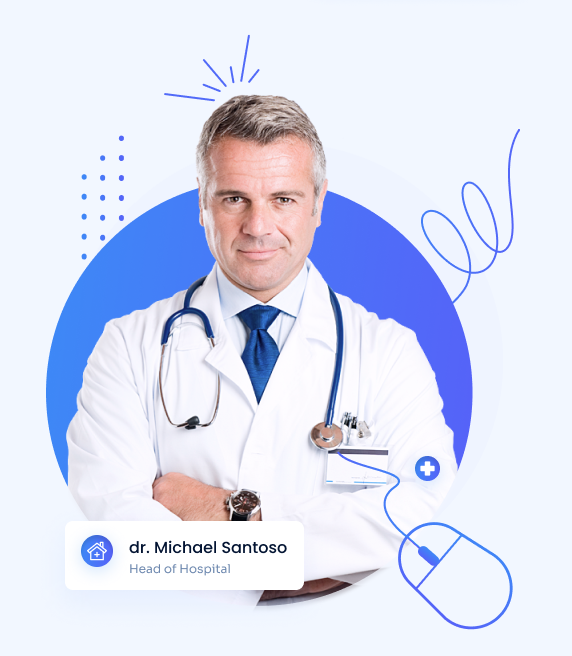
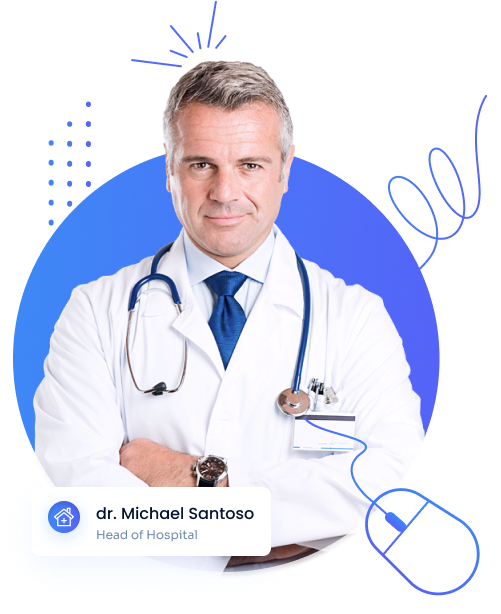
Created signin page

Changed region(s): [[0.0, 0.0, 0.9581, 0.9902], [0.9581, 0.1547, 0.988, 0.1857]]

diff --git a/med-records/src/pages/homepage.js b/med-records/src/pages/homepage.js
@@ -2,15 +2,16 @@ import React from "react";
 // import ReactDOM from 'react-dom';
 // import {Link} from 'react-router-dom'
 import "./homepage.css";
+import Footer from '../components/Footer'
 const homepage = () => {
   return (
     <div>
       <div className="navbar">
         <div className="home-btn">
           <div className="app-title">MedRecords</div>
-          <div className="logo"></div>
+          {/* <div className="logo"></div> */}
           {/* <div className='plus'></div> */}
-          <span className="plus">&#43;</span>
+          {/* <span className="plus">&#43;</span> */}
         </div>
 
         <div className="options">
@@ -37,7 +38,7 @@ const homepage = () => {
           </p>
           <button className="get-started">Get Started</button>
         </div>
-        <div className="home-img">
+        <div className="home-img" style={{marginLeft:200}}>
           <img
             src={require("../assets/HomePageDoctor.png")}
             alt="rjgbekgn"
@@ -47,21 +48,25 @@ const homepage = () => {
 
       <div className="partnerBox">
         <div className="partners"></div>
-        <div className="home-img" style={{ marginLeft: 160 }}>
+        <div className="home-img" style={{ marginLeft: 120 }}>
           <img src={require("../assets/Partners.png")} alt="rjgbekgn"></img>
         </div>
       </div>
       <div className="feature-box">
-        <div className="feature-title">What you can store?</div>
-        <div className="feature-desc">
-          Here at MedRecords you can store all your medical related documents
-          and reports. Be it your precriptions, your X-ray reports, your medical
-          bills, every document can be stored on the blockchain. Documents
-          stored will be tamper proof and permanent. Be assured!
+        <div className="home-img" style={{ marginLeft: 120 }}>
+          <img src={require("../assets/Features.png")} alt="rjgbekgn"></img>
         </div>
       </div>
-      <div></div>
+      <div>
+      <div className="home-img" style={{ marginLeft: 240 }}>
+          <img src={require("../assets/Testimonials.png")} alt="rjgbekgn"></img>
+        </div>
+      </div>
+      < Footer />
     </div>
+
+    // footer code
+    
   );
 };
 

diff --git a/med-records/src/pages/signin.js b/med-records/src/pages/signin.js
@@ -1,0 +1,38 @@
+import "./homepage.css";
+import "bootstrap/dist/css/bootstrap.css";
+import "./signin.css";
+export default function SignInPage() {
+    return (
+        <div className="signin-page">
+            <nav class="navbar navbar-expand-lg bg-light">
+                <div class="container-fluid">
+                    <div className="app-title">MedRecords
+                    </div>
+
+                    <button class="navbar-toggler" type="button" data-bs-toggle="collapse" data-bs-target="#navbarNavAltMarkup" aria-controls="navbarNavAltMarkup" aria-expanded="false" aria-label="Toggle navigation">
+                        <span class="navbar-toggler-icon"></span>
+                    </button>
+                    <div class="collapse navbar-collapse" id="navbarNavAltMarkup">
+                        <div class="navbar-nav" style={{ marginLeft: 650 }}>
+                            <a class="nav-link active" aria-current="page" href="#">Home</a>
+                            <a class="nav-link" href="#">About Us</a>
+                            <a class="nav-link" href="#">Features</a>
+                            <a class="nav-link disabled">Contact Us</a>
+                        </div>
+                    </div>
+                </div>
+            </nav >
+
+
+            <div className="sign-in-flex">
+                <div className="signin-img">
+                    <img
+                        src={require("../assets/signin.png")}
+                        alt="rjgbekgn"
+                    ></img>
+                </div>
+                <div className="sign-in-form"> hello</div>
+            </div>
+        </div >
+    );
+}   

diff --git a/med-records/src/components/Footer.js b/med-records/src/components/Footer.js
@@ -1,0 +1,33 @@
+import React from 'react';
+import './Footer.css'
+const Footer = () => {
+    return (
+        <div className = "footer">
+            <div className='footer-p1' >
+                <div className="footer-title">MedReports</div>
+                <div className="footer-address">
+                IIIT Bangalore, 26/C, Hosur Rd, Electronics City Phase 1, Electronic City, Bengaluru, Karnataka 560100
+                </div>
+            </div>
+
+            <div className="footer-p2">
+                    <div style={{fontWeight: 'bold'}}>Go to</div>
+                    <div>Home</div>
+                    <div>About Us</div>
+                    <div>Features</div>
+                    <div>Testimonials</div>
+            </div>
+
+            <div className="footer-p2">
+                <div>+626564465455</div>
+                <div>info@MedReports.com</div>
+                <div>Telp: +5646544654</div>
+            </div>
+            
+
+        </div>
+        
+    )
+}
+
+export default Footer;

diff --git a/med-records/public/index.html b/med-records/public/index.html
@@ -26,6 +26,10 @@
 <link href="https://fonts.googleapis.com/css2?family=Courier+Prime&family=Open+Sans:wght@500;700&display=swap" rel="stylesheet">
 
     
+
+<link href="https://cdn.jsdelivr.net/npm/bootstrap@5.2.2/dist/css/bootstrap.min.css" rel="stylesheet" integrity="sha384-Zenh87qX5JnK2Jl0vWa8Ck2rdkQ2Bzep5IDxbcnCeuOxjzrPF/et3URy9Bv1WTRi" crossorigin="anonymous">
+
+<script src="https://cdn.jsdelivr.net/npm/bootstrap@5.2.2/dist/js/bootstrap.bundle.min.js" integrity="sha384-OERcA2EqjJCMA+/3y+gxIOqMEjwtxJY7qPCqsdltbNJuaOe923+mo//f6V8Qbsw3" crossorigin="anonymous"></script>
     
     <!--
       Notice the use of %PUBLIC_URL% in the tags above.

diff --git a/med-records/src/App.js b/med-records/src/App.js
@@ -7,7 +7,7 @@ import {
 	Navigate
 } from 'react-router-dom';
 import Homepage from './pages/homepage'
-// import CollapsibleExample from './pages/Navbar';
+import SignInPage from './pages/signin';
 
 function App() {
   return (
@@ -16,6 +16,7 @@ function App() {
       <Routes>
         <Route exact path='/' element={<Navigate replace to="/homepage" />}></Route>
         <Route exact path='/homepage' element={< Homepage />}></Route>
+        <Route exact path='/signin' element={< SignInPage />}></Route>
       </Routes>
       
     </Router>

diff --git a/med-records/src/components/Footer.css b/med-records/src/components/Footer.css
@@ -1,0 +1,32 @@
+.footer {
+    padding: 4rem 4rem 4rem 4rem;
+    display: flex;
+    justify-content: space-between;
+    background-color: #0a0e31;
+}
+
+.footer-p1{
+    display: flex;
+    flex-direction: column;
+
+}
+
+.footer-title {
+    color: azure;
+    font-weight: bolder;
+    font-size: 3rem;
+}
+
+.footer-address {
+    color: azure;
+    font-weight: normal;
+    font-size: medium;
+
+}
+
+.footer-p2 {
+    display: flex;
+    flex-direction: column;
+    color: azure;
+    font-size: medium
+}

diff --git a/med-records/src/pages/signin.css b/med-records/src/pages/signin.css
@@ -1,0 +1,17 @@
+
+
+.signin-page {
+    background-color: #F2F7FF;
+}
+
+.signin-img {
+    width:60%;
+    height:60%;
+    margin-left: 3rem;
+}
+
+.sign-in-flex {
+    display: flex;
+    flex-direction: row;
+
+}
